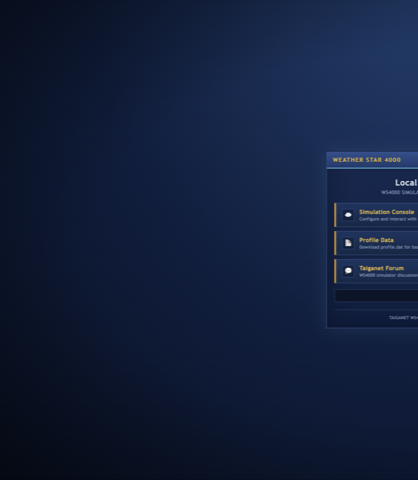
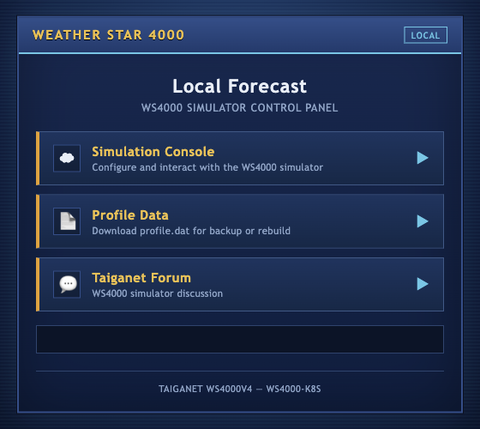
Fix README screenshots and credit Taiganet.
Recapture web UI panel and full simulator canvas, and thank Taiganet for
the WS4000v4 software this project wraps.

diff --git a/README.md b/README.md
@@ -2,10 +2,12 @@
 
 WS4000 simulator in Docker/Wine. Streams to Kick via ffmpeg sidecar.
 
+This project runs **[Taiganet's WS4000v4 simulator](https://www.taiganet.com/)** — a faithful, feature-rich recreation of the classic Weather Star 4000. None of the magic is ours; it all comes from their software and the community around it. Many thanks to Taiganet for building and sharing it. Grab `Config.w4k` and join the discussion on the [Taiganet forum](https://www.taiganet.com/forum/index.php/topic,4135.0.html).
+
 <table>
 <tr>
-<td><img src="docs/images/webui.png" alt="WS4000 ingress landing page" width="320"></td>
-<td><img src="docs/images/simulator.png" alt="WS4000 simulator in noVNC" width="320"></td>
+<td><img src="docs/images/webui.png" alt="WS4000 ingress landing page" width="400"></td>
+<td><img src="docs/images/simulator.png" alt="WS4000 simulator in noVNC" width="400"></td>
 </tr>
 </table>
 